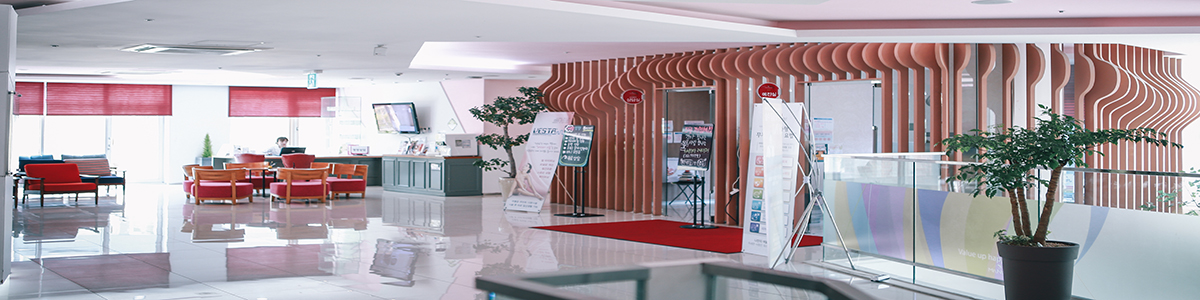
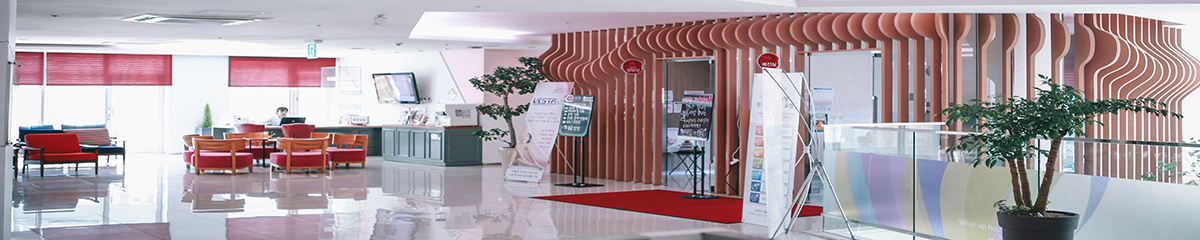
서브이미지 크기 조절

diff --git a/css/sub.css b/css/sub.css
@@ -2,8 +2,8 @@
 .content{max-width:1200px; margin:5em auto; position: relative;}
 
 /*서브 메인이미지*/
-.medicalimg{width:100%; display: block; height: 200px; background: url('../img/sub/medical.jpg')no-repeat; background-size: cover; background-position: 0 -80px;}
-.infertilityimg{width:100%; display: block; height: 200px; background: url('../img/sub/infertility.jpg')no-repeat; background-size: cover; background-position: 0 -80px;}
+.medicalimg{width:100%; display: block; height: 200px; background: url('../img/sub/medical.jpg')no-repeat; background-size: cover;     background-position:center center;}
+.infertilityimg{width:100%; display: block; height: 200px; background: url('../img/sub/infertility.jpg')no-repeat; background-size: cover;     background-position:center center;}
 
 /*title, text*/
 h1.sub_title{margin:2em 0; text-align: center; text-indent: 0.5em;}

diff --git a/css/facilities.css b/css/facilities.css
@@ -10,7 +10,7 @@
   max-width: 1300px;
 
 }
-.mizintroimg{width:100%; display: block; height: 200px; background: url('../img/sub/intro.jpg')no-repeat; background-size: cover; background-position: 0 -80px;}
+.mizintroimg{width:100%; display: block; height: 200px; background: url('../img/sub/intro.jpg')no-repeat; background-size: cover;     background-position:center center;}
 #text{
 	width: 100%;
 	text-align: center;

diff --git a/css/dr.css b/css/dr.css
@@ -1,5 +1,5 @@
 /*서브 메인이미지*/
-.mizintroimg{width:100%; display: block; height: 200px; background: url('../img/sub/intro.jpg')no-repeat; background-size: cover; background-position: 0 -80px;}
+.mizintroimg{width:100%; display: block; height: 200px; background: url('../img/sub/intro.jpg')no-repeat; background-size: cover;     background-position:center center;}
 
 /*산부인과*/
 *{

diff --git a/css/mmap.css b/css/mmap.css
@@ -1,5 +1,5 @@
 /*서브 메인이미지*/
-.mizintroimg{width:100%; display: block; height: 200px; background: url('../img/sub/intro.jpg')no-repeat; background-size: cover; background-position: 0 -80px;}
+.mizintroimg{width:100%; display: block; height: 200px; background: url('../img/sub/intro.jpg')no-repeat; background-size: cover;    background-position:center center;}
 
 *{
    margin: 0;

diff --git a/css/greet.css b/css/greet.css
@@ -1,5 +1,5 @@
 /*서브 메인이미지*/
-.mizintroimg{width:100%; display: block; height: 200px; background: url('../img/sub/intro.jpg')no-repeat; background-size: cover; background-position: 0 -80px;}
+.mizintroimg{width:100%; display: block; height: 200px; background: url('../img/sub/intro.jpg')no-repeat; background-size: cover;	background-position:center center;}
 
 *{
    margin: 0;
